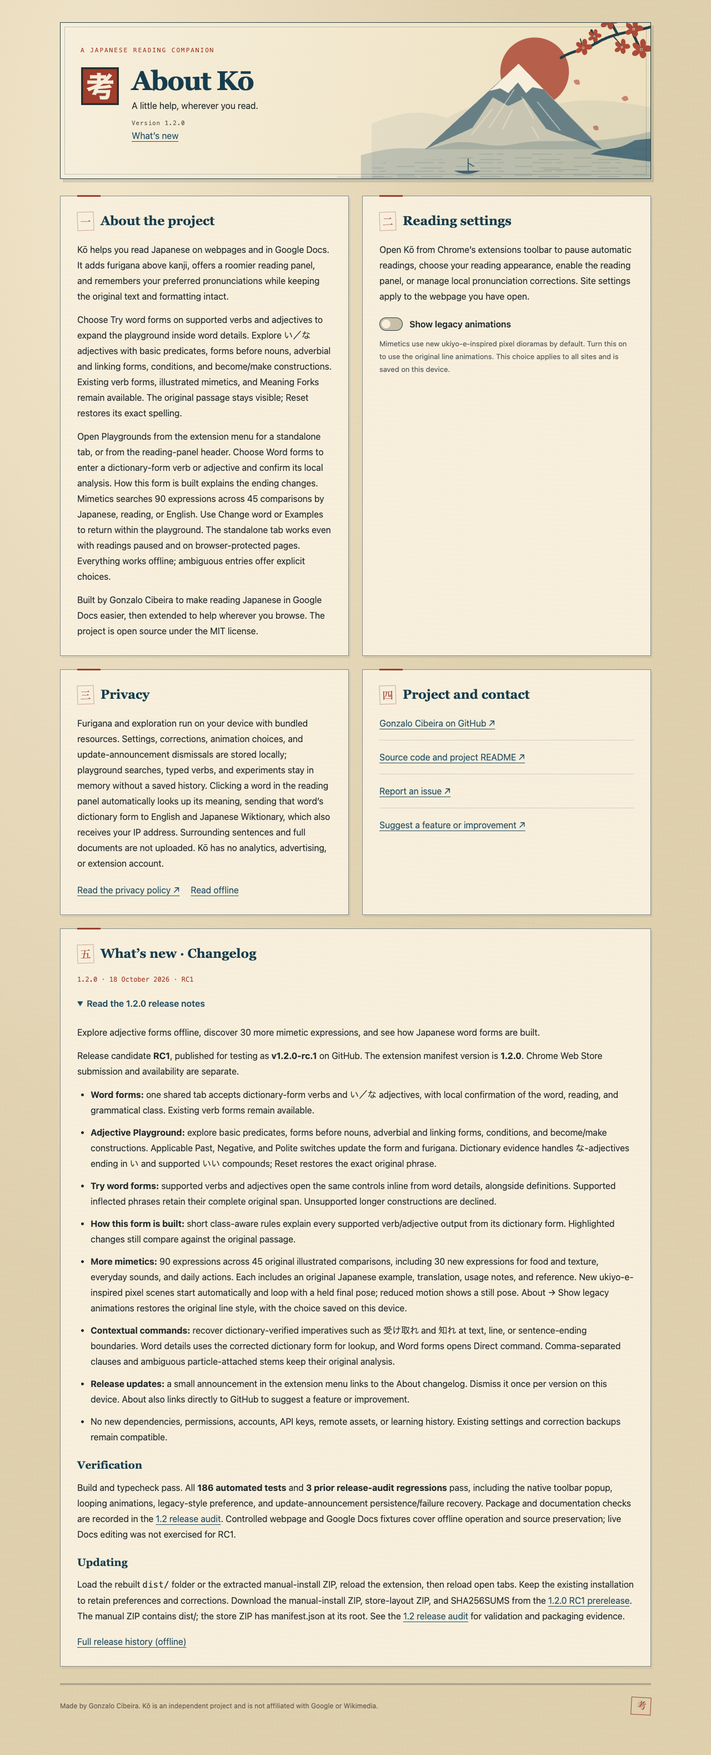
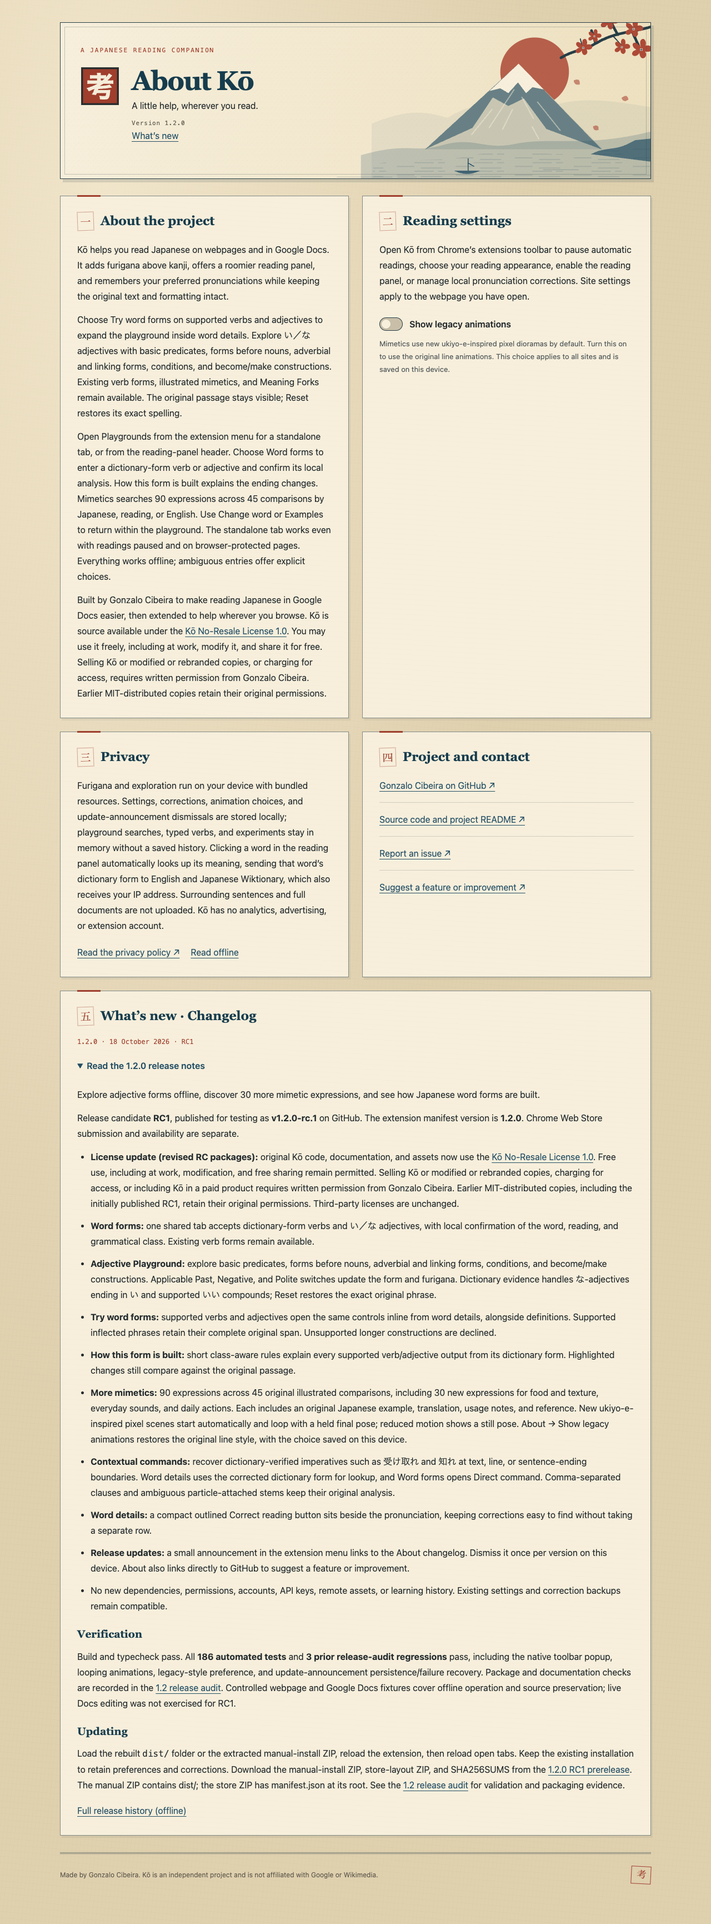
Reserve Kō resale rights in revised 1.2 RC1

Changed region(s): [[0.0625, 0.0, 0.9375, 0.9933], [0.5312, 0.3725, 0.75, 0.4656]]

diff --git a/dist/about.html b/dist/about.html
@@ -49,7 +49,7 @@ footer p{max-width:660px;margin:0}.colophon{flex:none;border:1px solid var(--sea
 <p>Kō helps you read Japanese on webpages and in Google Docs. It adds furigana above kanji, offers a roomier reading panel, and remembers your preferred pronunciations while keeping the original text and formatting intact.</p>
 <p>Choose Try word forms on supported verbs and adjectives to expand the playground inside word details. Explore い／な adjectives with basic predicates, forms before nouns, adverbial and linking forms, conditions, and become/make constructions. Existing verb forms, illustrated mimetics, and Meaning Forks remain available. The original passage stays visible; Reset restores its exact spelling.</p>
 <p>Open Playgrounds from the extension menu for a standalone tab, or from the reading-panel header. Choose Word forms to enter a dictionary-form verb or adjective and confirm its local analysis. How this form is built explains the ending changes. Mimetics searches 90 expressions across 45 comparisons by Japanese, reading, or English. Use Change word or Examples to return within the playground. The standalone tab works even with readings paused and on browser-protected pages. Everything works offline; ambiguous entries offer explicit choices.</p>
-<p>Built by Gonzalo Cibeira to make reading Japanese in Google Docs easier, then extended to help wherever you browse. The project is open source under the MIT license.</p>
+<p>Built by Gonzalo Cibeira to make reading Japanese in Google Docs easier, then extended to help wherever you browse. Kō is source available under the <a href="LICENSE" target="_blank" rel="noopener noreferrer">Kō No-Resale License 1.0</a>. You may use it freely, including at work, modify it, and share it for free. Selling Kō or modified or rebranded copies, or charging for access, requires written permission from Gonzalo Cibeira. Earlier MIT-distributed copies retain their original permissions.</p>
 </section>
 <section aria-labelledby="settings-heading">
 <h2 id="settings-heading"><span class="chapter" lang="ja" aria-hidden="true">二</span>Reading settings</h2>
@@ -77,6 +77,7 @@ footer p{max-width:660px;margin:0}.colophon{flex:none;border:1px solid var(--sea
 <p class="release-version">1.2.0 · 18 October 2026 · RC1</p><details id="current-release-notes" open><summary>Read the 1.2.0 release notes</summary><div class="release-body"><p>Explore adjective forms offline, discover 30 more mimetic expressions, and see how Japanese word forms are built.</p>
 <p>Release candidate <strong>RC1</strong>, published for testing as <strong>v1.2.0-rc.1</strong> on GitHub. The extension manifest version is <strong>1.2.0</strong>. Chrome Web Store submission and availability are separate.</p>
 <ul>
+<li><strong>License update (revised RC packages):</strong> original Kō code, documentation, and assets now use the <a href="https://github.com/gonzalocibeira/ko-japanese-reading-companion/blob/master/LICENSE" target="_blank" rel="noopener noreferrer">Kō No-Resale License 1.0</a>. Free use, including at work, modification, and free sharing remain permitted. Selling Kō or modified or rebranded copies, charging for access, or including Kō in a paid product requires written permission from Gonzalo Cibeira. Earlier MIT-distributed copies, including the initially published RC1, retain their original permissions. Third-party licenses are unchanged.</li>
 <li><strong>Word forms:</strong> one shared tab accepts dictionary-form verbs and い／な adjectives, with local confirmation of the word, reading, and grammatical class. Existing verb forms remain available.</li>
 <li><strong>Adjective Playground:</strong> explore basic predicates, forms before nouns, adverbial and linking forms, conditions, and become/make constructions. Applicable Past, Negative, and Polite switches update the form and furigana. Dictionary evidence handles な-adjectives ending in い and supported いい compounds; Reset restores the exact original phrase.</li>
 <li><strong>Try word forms:</strong> supported verbs and adjectives open the same controls inline from word details, alongside definitions. Supported inflected phrases retain their complete original span. Unsupported longer constructions are declined.</li>

diff --git a/public/about.html b/public/about.html
@@ -49,7 +49,7 @@ footer p{max-width:660px;margin:0}.colophon{flex:none;border:1px solid var(--sea
 <p>Kō helps you read Japanese on webpages and in Google Docs. It adds furigana above kanji, offers a roomier reading panel, and remembers your preferred pronunciations while keeping the original text and formatting intact.</p>
 <p>Choose Try word forms on supported verbs and adjectives to expand the playground inside word details. Explore い／な adjectives with basic predicates, forms before nouns, adverbial and linking forms, conditions, and become/make constructions. Existing verb forms, illustrated mimetics, and Meaning Forks remain available. The original passage stays visible; Reset restores its exact spelling.</p>
 <p>Open Playgrounds from the extension menu for a standalone tab, or from the reading-panel header. Choose Word forms to enter a dictionary-form verb or adjective and confirm its local analysis. How this form is built explains the ending changes. Mimetics searches 90 expressions across 45 comparisons by Japanese, reading, or English. Use Change word or Examples to return within the playground. The standalone tab works even with readings paused and on browser-protected pages. Everything works offline; ambiguous entries offer explicit choices.</p>
-<p>Built by Gonzalo Cibeira to make reading Japanese in Google Docs easier, then extended to help wherever you browse. The project is open source under the MIT license.</p>
+<p>Built by Gonzalo Cibeira to make reading Japanese in Google Docs easier, then extended to help wherever you browse. Kō is source available under the <a href="LICENSE" target="_blank" rel="noopener noreferrer">Kō No-Resale License 1.0</a>. You may use it freely, including at work, modify it, and share it for free. Selling Kō or modified or rebranded copies, or charging for access, requires written permission from Gonzalo Cibeira. Earlier MIT-distributed copies retain their original permissions.</p>
 </section>
 <section aria-labelledby="settings-heading">
 <h2 id="settings-heading"><span class="chapter" lang="ja" aria-hidden="true">二</span>Reading settings</h2>

diff --git a/dist/release-notes.html b/dist/release-notes.html
@@ -3,6 +3,7 @@
 <p>Explore adjective forms offline, discover 30 more mimetic expressions, and see how Japanese word forms are built.</p>
 <p>Release candidate <strong>RC1</strong>, published for testing as <strong>v1.2.0-rc.1</strong> on GitHub. The extension manifest version is <strong>1.2.0</strong>. Chrome Web Store submission and availability are separate.</p>
 <ul>
+<li><strong>License update (revised RC packages):</strong> original Kō code, documentation, and assets now use the <a href="https://github.com/gonzalocibeira/ko-japanese-reading-companion/blob/master/LICENSE" target="_blank" rel="noopener noreferrer">Kō No-Resale License 1.0</a>. Free use, including at work, modification, and free sharing remain permitted. Selling Kō or modified or rebranded copies, charging for access, or including Kō in a paid product requires written permission from Gonzalo Cibeira. Earlier MIT-distributed copies, including the initially published RC1, retain their original permissions. Third-party licenses are unchanged.</li>
 <li><strong>Word forms:</strong> one shared tab accepts dictionary-form verbs and い／な adjectives, with local confirmation of the word, reading, and grammatical class. Existing verb forms remain available.</li>
 <li><strong>Adjective Playground:</strong> explore basic predicates, forms before nouns, adverbial and linking forms, conditions, and become/make constructions. Applicable Past, Negative, and Polite switches update the form and furigana. Dictionary evidence handles な-adjectives ending in い and supported いい compounds; Reset restores the exact original phrase.</li>
 <li><strong>Try word forms:</strong> supported verbs and adjectives open the same controls inline from word details, alongside definitions. Supported inflected phrases retain their complete original span. Unsupported longer constructions are declined.</li>

diff --git a/dist/docs/release-1.2-audit.md b/dist/docs/release-1.2-audit.md
@@ -2,6 +2,12 @@
 
 Release candidate: **v1.2.0-rc.1**, 18 October 2026. The extension manifest and npm package versions are **1.2.0**. The repository’s default branch is **master**. GitHub prerelease publication and Chrome Web Store submission are separate; this RC does not submit or update the store.
 
+## License revision · 18 October 2026
+
+The republished RC1 uses the Kō No-Resale License 1.0 for original project code, documentation, and assets. Free use (including at work), modification, and free sharing are permitted. Paid distribution, paid access, and inclusion in paid products require Gonzalo Cibeira's written permission, including for modified or rebranded copies. Third-party terms are unchanged. Earlier MIT-distributed copies, including the initial RC1 publication, retain their permissions.
+
+This documentation/license revision passed build, typecheck, both existing release-announcement browser tests, and package parity/checksum verification. Executable JavaScript is unchanged from the preceding RC1 build; the 186-test and three-regression results below describe the prior runtime verification rather than a full-suite rerun for this license revision. The updated About, privacy, and release-history pages also passed all 12 offline viewport checks.
+
 ## Included changes
 
 - Shared Word forms input for dictionary-form verbs and い／な adjectives, inline adjective exploration, exact-original Reset, applicable controls, furigana, and How this form is built explanations.
@@ -37,8 +43,8 @@ Both ZIPs use the same runtime allowlist: the manual ZIP keeps `dist/`, and the 
 
 Both ZIPs contain the same **143 runtime files**, including **90 animation strips**, and match the final built distribution byte-for-byte. Run `python3 qa/release-1.2/verify-packages.py` from the repository root to recheck contents, exclusions, parity, and checksums.
 
[4 lines of base64/hex data omitted]
 
 The same hashes are saved in `SHA256SUMS` and `qa/release-1.2/packages.json`. RC1 is published as a GitHub prerelease; Chrome Web Store submission remains separate.
 

diff --git a/docs/release-1.2-audit.md b/docs/release-1.2-audit.md
@@ -2,6 +2,12 @@
 
 Release candidate: **v1.2.0-rc.1**, 18 October 2026. The extension manifest and npm package versions are **1.2.0**. The repository’s default branch is **master**. GitHub prerelease publication and Chrome Web Store submission are separate; this RC does not submit or update the store.
 
+## License revision · 18 October 2026
+
+The republished RC1 uses the Kō No-Resale License 1.0 for original project code, documentation, and assets. Free use (including at work), modification, and free sharing are permitted. Paid distribution, paid access, and inclusion in paid products require Gonzalo Cibeira's written permission, including for modified or rebranded copies. Third-party terms are unchanged. Earlier MIT-distributed copies, including the initial RC1 publication, retain their permissions.
+
+This documentation/license revision passed build, typecheck, both existing release-announcement browser tests, and package parity/checksum verification. Executable JavaScript is unchanged from the preceding RC1 build; the 186-test and three-regression results below describe the prior runtime verification rather than a full-suite rerun for this license revision. The updated About, privacy, and release-history pages also passed all 12 offline viewport checks.
+
 ## Included changes
 
 - Shared Word forms input for dictionary-form verbs and い／な adjectives, inline adjective exploration, exact-original Reset, applicable controls, furigana, and How this form is built explanations.
@@ -37,8 +43,8 @@ Both ZIPs use the same runtime allowlist: the manual ZIP keeps `dist/`, and the 
 
 Both ZIPs contain the same **143 runtime files**, including **90 animation strips**, and match the final built distribution byte-for-byte. Run `python3 qa/release-1.2/verify-packages.py` from the repository root to recheck contents, exclusions, parity, and checksums.
 
[4 lines of base64/hex data omitted]
 
 The same hashes are saved in `SHA256SUMS` and `qa/release-1.2/packages.json`. RC1 is published as a GitHub prerelease; Chrome Web Store submission remains separate.
 

diff --git a/dist/docs/technical-notes.md b/dist/docs/technical-notes.md
@@ -94,7 +94,7 @@ Coverage includes automatic readings, mixed inline markup, unchanged source/layo
 
 Playground checks cover golden verb/adjective forms and changing readings, real-dictionary class alternatives and phrase recognition, ambiguity choices, contextual imperative recovery, contractions, exact Reset, all 90 mimetic assets and aliases, token-boundary joins, confirmed typed input, purpose-isolated cancellation, stale results, keyboard operation, 280–720 px layouts, and reduced motion. Tests exercise both the default pixel animations and legacy line style, automatic looping, live style changes, and offline decoding. Update-announcement checks verify local per-version dismissal across browser restart, synchronized open menus, save-failure recovery, offline changelog access, and the GitHub suggestion destination. The native popup check verifies its 580 px height, announcement, dismissal, and wheel access to footer links. Existing concurrency, source-preservation, hidden/disclosure, and lexical-kana regressions remain covered. See the [1.2 release audit](release-1.2-audit.md) for current results and packaging evidence. Historical live read-only Docs evidence is retained in the [1.1 audit](chrome-web-store-audit.md); live editing was not exercised for RC1.
 
-Project code is licensed under the [MIT License](../LICENSE). Third-party licenses are included in `dist/licenses/`: Kuromoji (Apache 2.0), IPADIC (its own notice), async, doublearray, zlibjs, lodash, and kamiya-codec (Unlicense). The URL-safe dictionary path adapter and reviewed conjugation adapter are local project code; upstream dependency sources are not modified.
+Original project code, documentation, and assets in the updated 1.2.0 RC1 distribution use the [Kō No-Resale License 1.0](../LICENSE). Free use (including at work), modification, and free sharing are permitted; paid distribution, paid access, and inclusion in paid products require the owner's written permission, including for modified or rebranded copies. Earlier MIT-distributed copies retain their original permissions. Third-party licenses are included in `dist/licenses/`: Kuromoji (Apache 2.0), IPADIC (its own notice), async, doublearray, zlibjs, lodash, and kamiya-codec (Unlicense). The URL-safe dictionary path adapter and reviewed conjugation adapter are local project code; upstream dependency sources are not modified.
 
 ## 1.2 adjective forms
 

diff --git a/docs/technical-notes.md b/docs/technical-notes.md
@@ -94,7 +94,7 @@ Coverage includes automatic readings, mixed inline markup, unchanged source/layo
 
 Playground checks cover golden verb/adjective forms and changing readings, real-dictionary class alternatives and phrase recognition, ambiguity choices, contextual imperative recovery, contractions, exact Reset, all 90 mimetic assets and aliases, token-boundary joins, confirmed typed input, purpose-isolated cancellation, stale results, keyboard operation, 280–720 px layouts, and reduced motion. Tests exercise both the default pixel animations and legacy line style, automatic looping, live style changes, and offline decoding. Update-announcement checks verify local per-version dismissal across browser restart, synchronized open menus, save-failure recovery, offline changelog access, and the GitHub suggestion destination. The native popup check verifies its 580 px height, announcement, dismissal, and wheel access to footer links. Existing concurrency, source-preservation, hidden/disclosure, and lexical-kana regressions remain covered. See the [1.2 release audit](release-1.2-audit.md) for current results and packaging evidence. Historical live read-only Docs evidence is retained in the [1.1 audit](chrome-web-store-audit.md); live editing was not exercised for RC1.
 
-Project code is licensed under the [MIT License](../LICENSE). Third-party licenses are included in `dist/licenses/`: Kuromoji (Apache 2.0), IPADIC (its own notice), async, doublearray, zlibjs, lodash, and kamiya-codec (Unlicense). The URL-safe dictionary path adapter and reviewed conjugation adapter are local project code; upstream dependency sources are not modified.
+Original project code, documentation, and assets in the updated 1.2.0 RC1 distribution use the [Kō No-Resale License 1.0](../LICENSE). Free use (including at work), modification, and free sharing are permitted; paid distribution, paid access, and inclusion in paid products require the owner's written permission, including for modified or rebranded copies. Earlier MIT-distributed copies retain their original permissions. Third-party licenses are included in `dist/licenses/`: Kuromoji (Apache 2.0), IPADIC (its own notice), async, doublearray, zlibjs, lodash, and kamiya-codec (Unlicense). The URL-safe dictionary path adapter and reviewed conjugation adapter are local project code; upstream dependency sources are not modified.
 
 ## 1.2 adjective forms
 

diff --git a/dist/docs/github-release-1.2.0.md b/dist/docs/github-release-1.2.0.md
@@ -4,6 +4,7 @@ Explore adjective forms offline, discover 30 more mimetic expressions, and see h
 
 Release candidate **RC1**, published for testing as **v1.2.0-rc.1** on GitHub. The extension manifest version is **1.2.0**. Chrome Web Store submission and availability are separate.
 
+- **License update (revised RC packages):** original Kō code, documentation, and assets now use the [Kō No-Resale License 1.0](https://github.com/gonzalocibeira/ko-japanese-reading-companion/blob/master/LICENSE). Free use, including at work, modification, and free sharing remain permitted. Selling Kō or modified or rebranded copies, charging for access, or including Kō in a paid product requires written permission from Gonzalo Cibeira. Earlier MIT-distributed copies, including the initially published RC1, retain their original permissions. Third-party licenses are unchanged.
 - **Word forms:** one shared tab accepts dictionary-form verbs and い／な adjectives, with local confirmation of the word, reading, and grammatical class. Existing verb forms remain available.
 - **Adjective Playground:** explore basic predicates, forms before nouns, adverbial and linking forms, conditions, and become/make constructions. Applicable Past, Negative, and Polite switches update the form and furigana. Dictionary evidence handles な-adjectives ending in い and supported いい compounds; Reset restores the exact original phrase.
 - **Try word forms:** supported verbs and adjectives open the same controls inline from word details, alongside definitions. Supported inflected phrases retain their complete original span. Unsupported longer constructions are declined.

diff --git a/README.md b/README.md
@@ -276,8 +276,10 @@ See [technical notes](docs/technical-notes.md) for the architecture, exact budge
 
 ## License
 
-Project code is licensed under the [MIT License](LICENSE). You can use, modify, and redistribute it under those terms.
+This updated 1.2.0 RC1 distribution uses the [Kō No-Resale License 1.0](LICENSE) for original project code, documentation, and assets. You may use Kō freely, including at work, inspect and modify its source, and share copies for free. Selling Kō, charging for access, or including it in a paid product requires written permission from Gonzalo Cibeira. This applies to modified and rebranded copies too. Independent paid support, training, and custom development are permitted under the license's conditions.
+
+Kō is source available under these terms. Earlier copies distributed under MIT, including the initially published RC1, retain their MIT permissions; this change does not revoke them. Check the `LICENSE` supplied with your copy.
 
 ### Third-party notices
 
-Bundled dependency licenses are included in [`dist/licenses/`](dist/licenses/), including Kuromoji (Apache 2.0), IPADIC's notice, async, doublearray, zlibjs, lodash, and kamiya-codec (Unlicense). These dependencies retain their own licenses; the project MIT license does not replace them.
+Bundled dependency licenses are included in [`dist/licenses/`](dist/licenses/), including Kuromoji (Apache 2.0), IPADIC's notice, async, doublearray, zlibjs, lodash, and kamiya-codec (Unlicense). These dependencies retain their own licenses; the Kō No-Resale License does not replace them.

diff --git a/dist/docs/release-notes.md b/dist/docs/release-notes.md
@@ -6,6 +6,7 @@ Explore adjective forms offline, discover 30 more mimetic expressions, and see h
 
 Release candidate **RC1**, published for testing as **v1.2.0-rc.1** on GitHub. The extension manifest version is **1.2.0**. Chrome Web Store submission and availability are separate.
 
+- **License update (revised RC packages):** original Kō code, documentation, and assets now use the [Kō No-Resale License 1.0](../LICENSE). Free use, including at work, modification, and free sharing remain permitted. Selling Kō or modified or rebranded copies, charging for access, or including Kō in a paid product requires written permission from Gonzalo Cibeira. Earlier MIT-distributed copies, including the initially published RC1, retain their original permissions. Third-party licenses are unchanged.
 - **Word forms:** one shared tab accepts dictionary-form verbs and い／な adjectives, with local confirmation of the word, reading, and grammatical class. Existing verb forms remain available.
 - **Adjective Playground:** explore basic predicates, forms before nouns, adverbial and linking forms, conditions, and become/make constructions. Applicable Past, Negative, and Polite switches update the form and furigana. Dictionary evidence handles な-adjectives ending in い and supported いい compounds; Reset restores the exact original phrase.
 - **Try word forms:** supported verbs and adjectives open the same controls inline from word details, alongside definitions. Supported inflected phrases retain their complete original span. Unsupported longer constructions are declined.

diff --git a/docs/release-notes.md b/docs/release-notes.md
@@ -6,6 +6,7 @@ Explore adjective forms offline, discover 30 more mimetic expressions, and see h
 
 Release candidate **RC1**, published for testing as **v1.2.0-rc.1** on GitHub. The extension manifest version is **1.2.0**. Chrome Web Store submission and availability are separate.
 
+- **License update (revised RC packages):** original Kō code, documentation, and assets now use the [Kō No-Resale License 1.0](../LICENSE). Free use, including at work, modification, and free sharing remain permitted. Selling Kō or modified or rebranded copies, charging for access, or including Kō in a paid product requires written permission from Gonzalo Cibeira. Earlier MIT-distributed copies, including the initially published RC1, retain their original permissions. Third-party licenses are unchanged.
 - **Word forms:** one shared tab accepts dictionary-form verbs and い／な adjectives, with local confirmation of the word, reading, and grammatical class. Existing verb forms remain available.
 - **Adjective Playground:** explore basic predicates, forms before nouns, adverbial and linking forms, conditions, and become/make constructions. Applicable Past, Negative, and Polite switches update the form and furigana. Dictionary evidence handles な-adjectives ending in い and supported いい compounds; Reset restores the exact original phrase.
 - **Try word forms:** supported verbs and adjectives open the same controls inline from word details, alongside definitions. Supported inflected phrases retain their complete original span. Unsupported longer constructions are declined.

diff --git a/dist/README.md b/dist/README.md
@@ -276,8 +276,10 @@ See [technical notes](docs/technical-notes.md) for the architecture, exact budge
 
 ## License
 
-Project code is licensed under the [MIT License](LICENSE). You can use, modify, and redistribute it under those terms.
+This updated 1.2.0 RC1 distribution uses the [Kō No-Resale License 1.0](LICENSE) for original project code, documentation, and assets. You may use Kō freely, including at work, inspect and modify its source, and share copies for free. Selling Kō, charging for access, or including it in a paid product requires written permission from Gonzalo Cibeira. This applies to modified and rebranded copies too. Independent paid support, training, and custom development are permitted under the license's conditions.
+
+Kō is source available under these terms. Earlier copies distributed under MIT, including the initially published RC1, retain their MIT permissions; this change does not revoke them. Check the `LICENSE` supplied with your copy.
 
 ### Third-party notices
 
-Bundled dependency licenses are included in [`dist/licenses/`](licenses/), including Kuromoji (Apache 2.0), IPADIC's notice, async, doublearray, zlibjs, lodash, and kamiya-codec (Unlicense). These dependencies retain their own licenses; the project MIT license does not replace them.
+Bundled dependency licenses are included in [`dist/licenses/`](licenses/), including Kuromoji (Apache 2.0), IPADIC's notice, async, doublearray, zlibjs, lodash, and kamiya-codec (Unlicense). These dependencies retain their own licenses; the Kō No-Resale License does not replace them.
